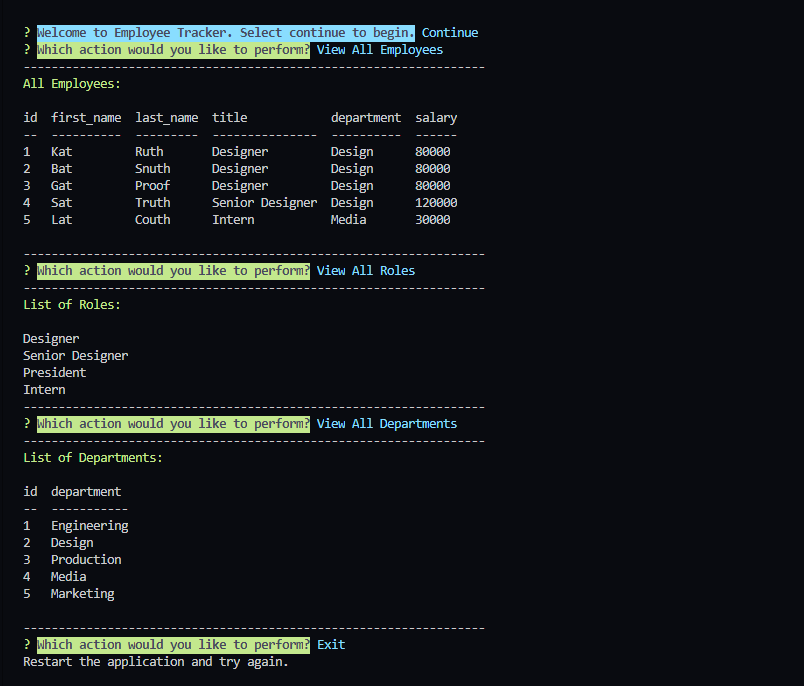
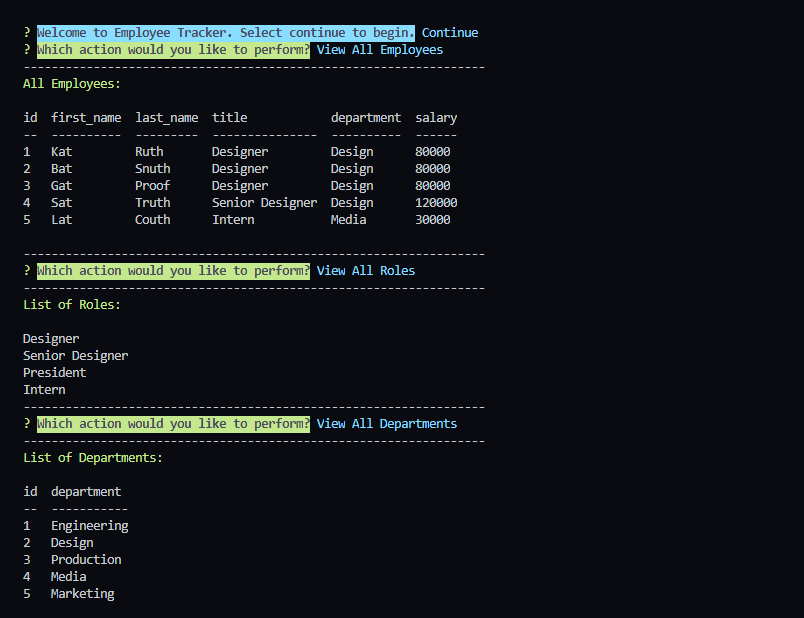
visuals to readme

Changed region(s): [[0.0311, 0.0307, 0.5908, 0.9838]]

diff --git a/README.md b/README.md
@@ -25,7 +25,9 @@ Keep track of your team's relevant information like departments, roles and emplo
 - Then, use the arrow keys and `ENTER` to make your menu selections.
 
 ## *Screenshots*
-![Demo of Command Line Prompts](./assets/screenshots/ss1.PNG)
+![Demo of Command Line View Prompts](./assets/screenshots/ss1.PNG)
+
+![Demo of Command Line Add Prompts](./assets/screenshots/ss2.PNG)
 
 ## *Questions?*
 - My Profile: [katsign](https://github.com/katsign)
